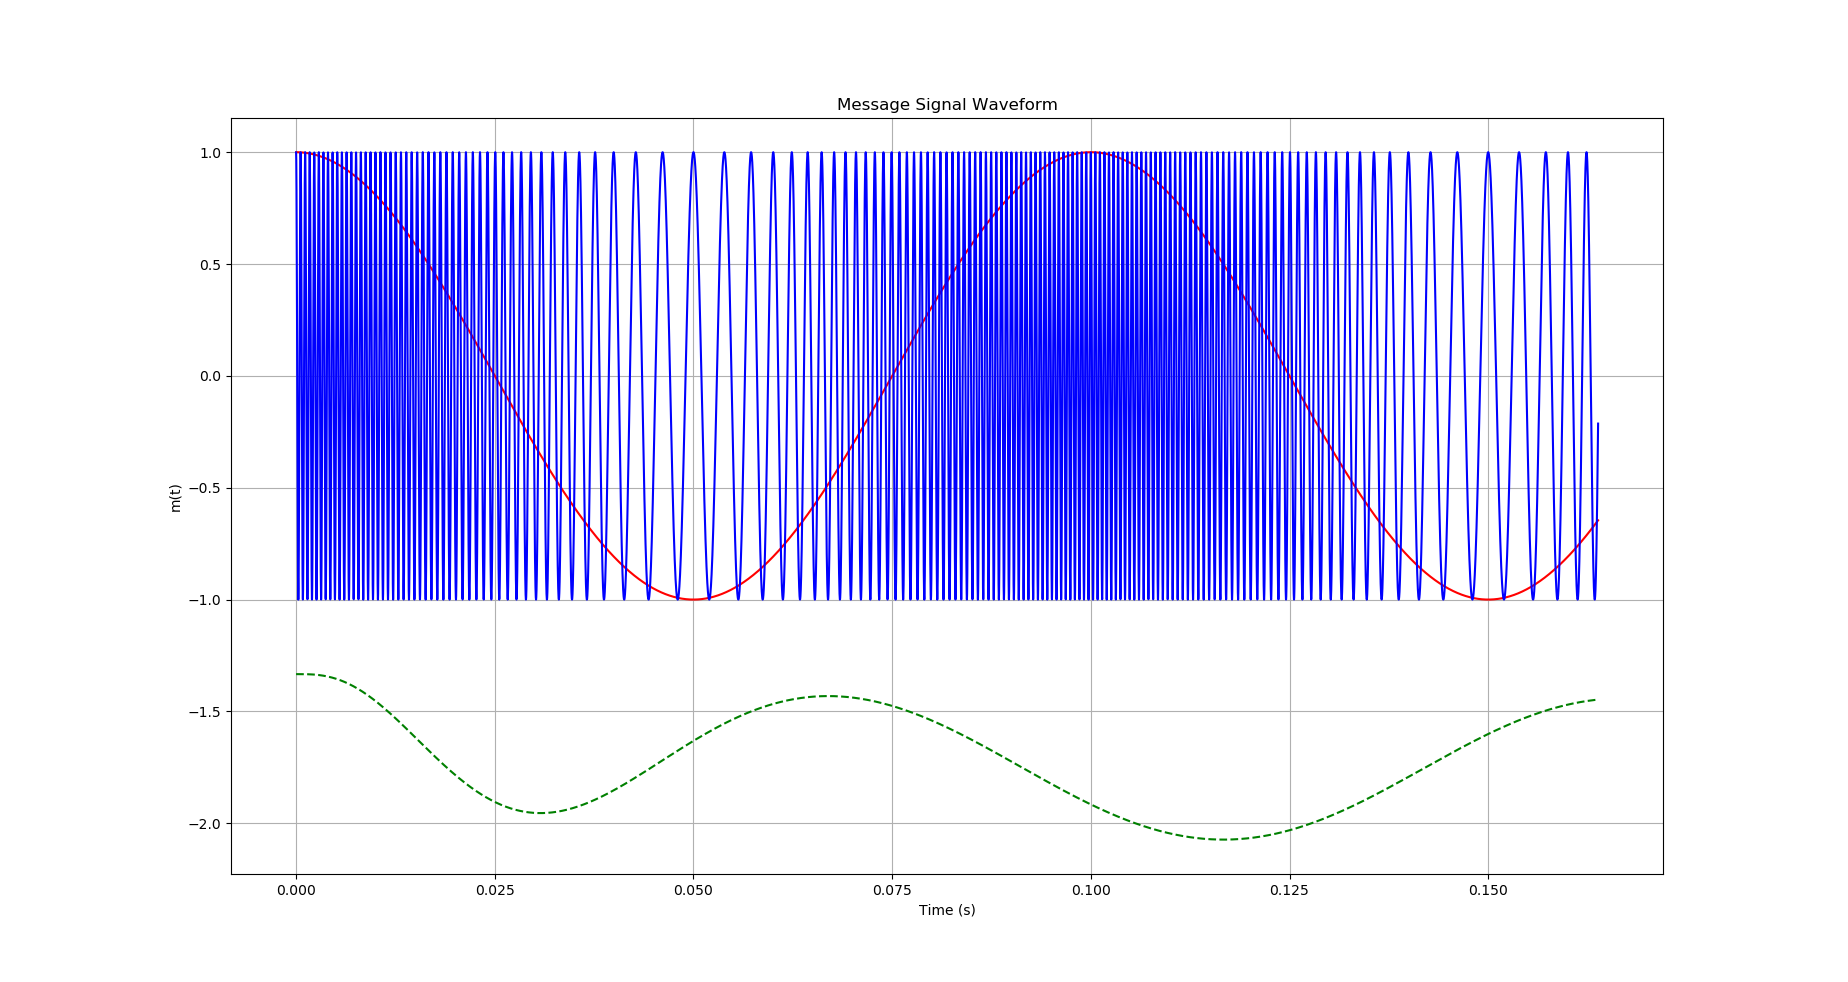
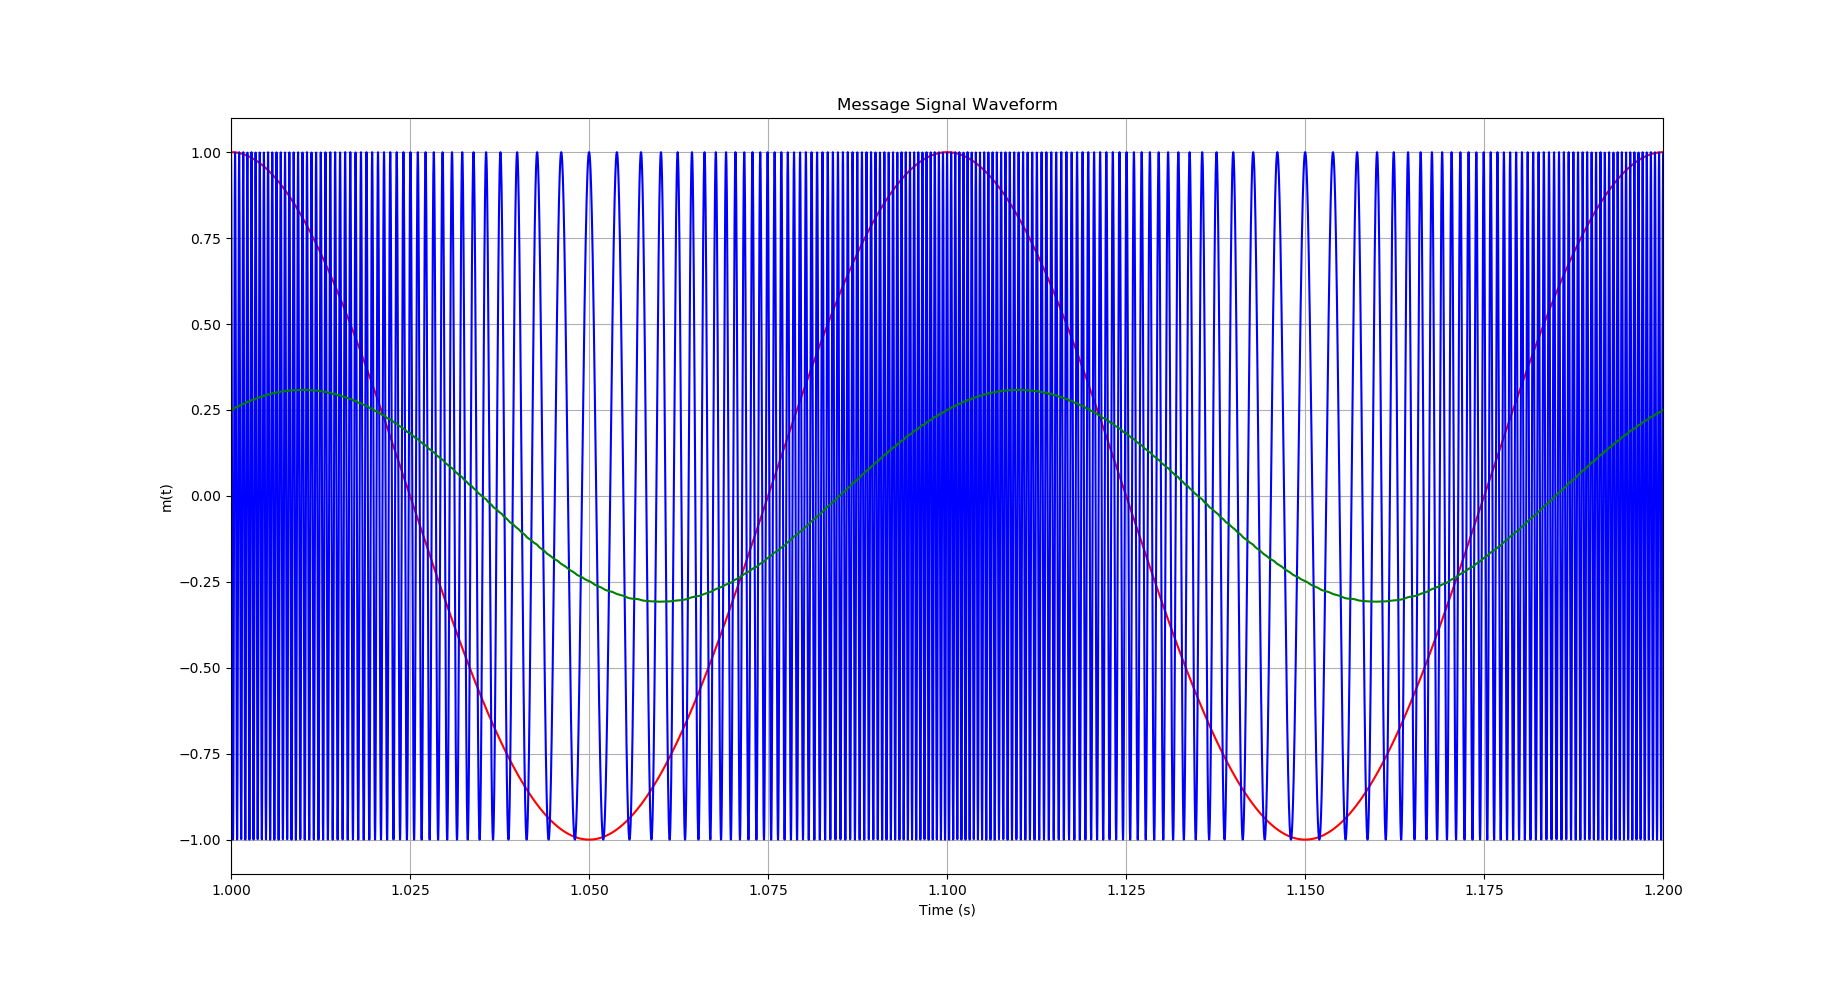
Used fir filter Envelope detection working much better now

diff --git a/src/fm/fm_demod.py b/src/fm/fm_demod.py
@@ -3,27 +3,36 @@ from numpy.typing import NDArray
 import numpy as np
 from scipy.fft import fft,ifft
 from scipy.signal import butter, lfilter, freqz
+from scipy import signal
 class fm_demod:
     def __init__(self,kf:float,fc:float,Ac:float,f_cutoff:float,fs:float,lpf_order:float):
         self.kf = kf
         self.fc = fc
         self.Ac = Ac
         self.fs = fs
-        self.b,self.a = butter(N=lpf_order/2,Wn=f_cutoff*2/fs,btype='lowpass')
+        # self.b,self.a = butter(N=lpf_order/2,Wn=f_cutoff*2/fs,btype='lowpass') # Non-linear phase is causing some drift in the demodulated signal
+        self.b = signal.firwin(
+            numtaps=lpf_order+1,
+            cutoff=f_cutoff*2/fs,
+            pass_zero='lowpass',
+            window='hamming',
+            fs=fs
+        )
         
     def demodulate(self,psi:NDArray[np.float64]):
-        del_psi = np.zeros(len(psi))
-        for i in range(0,len(psi)):
-            if i == 0:
-                del_psi[i] = (psi[i+1] - psi[i])*self.fs # Linear interpolation at lower edge
-            else:
-                del_psi[i] = (psi[i] - psi[i-1])*self.fs # Backward difference
+        diff_order = 1
+        del_psi = np.diff(psi,n=diff_order,prepend=[psi[0] - (psi[1] - psi[0])])*self.fs/diff_order
         print(del_psi)
         rect_del_psi = self.__rectify(del_psi)
-        env = lfilter(self.b,self.a,rect_del_psi)
-        env = -env/(2*np.pi*self.Ac)
-        env = (env - self.fc)/self.kf
-        return env
+     
+        # env = lfilter(self.b,self.a,rect_del_psi) # For butterworth filter
+        a = np.zeros(len(self.b))
+        a[0] = 1
+        env = lfilter(b=self.b,a=a,x=rect_del_psi)
+        m = env/(2*np.pi*self.Ac)
+        m = (m - self.fc)/self.kf
+        m = m - np.mean(m)
+        return m
         
     def __rectify(self,x:NDArray[np.float64]):
         y = np.zeros(len(x))

diff --git a/tests/fm_demod_test.py b/tests/fm_demod_test.py
@@ -10,7 +10,7 @@ from fm.fm_demod import fm_demod
     fc = 1e6
 '''
 # Sampling parameters
-n:int = 2**14
+n:int = 2**18
 fs:float = 1e5
 Ts:float = 1/fs
 t = np.arange(0,n*Ts,Ts)
@@ -26,7 +26,7 @@ Ac = 1
 fc = 1e3
 
 modulator:fm_mod = fm_mod(kf=kf,Ac=Ac,fc=fc)
-demodulator:fm_demod = fm_demod(kf=kf,fc=fc,Ac=Ac,f_cutoff=2*fm,fs=fs,lpf_order=6)
+demodulator:fm_demod = fm_demod(kf=kf,fc=fc,Ac=Ac,f_cutoff=fm/4,fs=fs,lpf_order=2000)
 psi = modulator.modulate(m,t,Ts)
 # print(psi)
 demod = demodulator.demodulate(psi)
@@ -36,12 +36,13 @@ fig, ax = plt.subplots()
 
 ax.plot(t,m,'r')
 ax.plot(t,psi,'b')
-ax.plot(t,demod,c='green',ls='--')
+ax.plot(t,demod,c='green')
 ax.set(
     xlabel="Time (s)",
     ylabel="m(t)",
-    title="Message Signal Waveform"
+    title="Message Signal Waveform",
 )
+ax.set_xlim(left=1,right=1+2/fm)
 ax.grid()
 plt.show()
 fig.savefig("docs/fm_demod_test.png")
